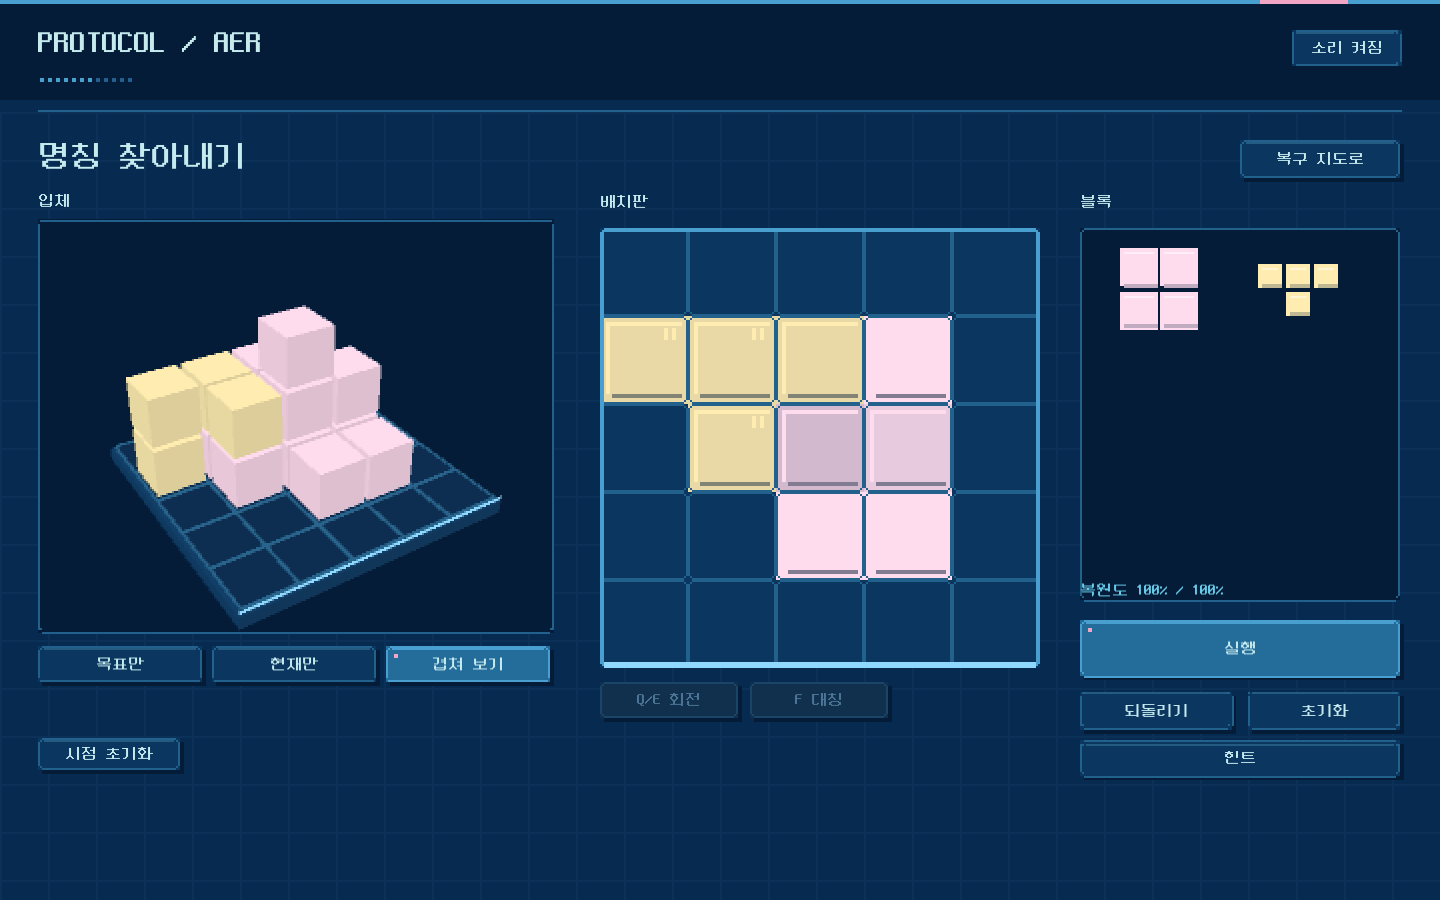
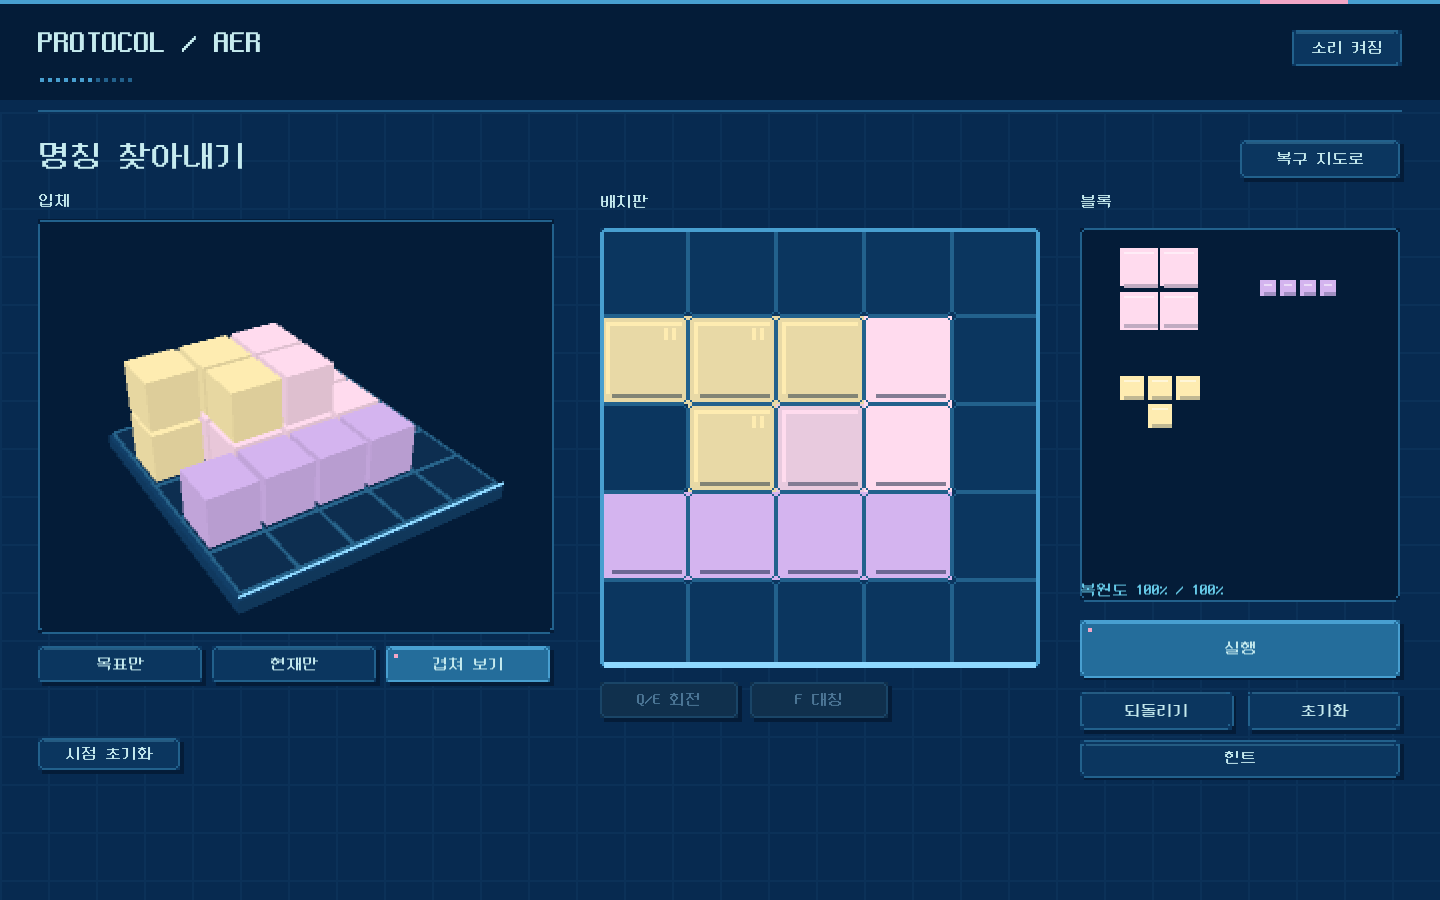
Include I mino in the control room teaching puzzle

diff --git a/Assets/Editor/AerBuilder.cs b/Assets/Editor/AerBuilder.cs
@@ -87,7 +87,7 @@ public static class AerBuilder
             int unlock=action==0?11:action==1?10:action==2?8:action==3?5:0;
             for(int i=0;i<AerStages.All.Length;i++)
             {
-                bool expected=i==10?(action==4||action==3||action==1):i==11?(action==4||action==0):i>=unlock;
+                bool expected=i==10?(action==4||action==3||action==1):i==11?(action==4||action==2||action==0):i>=unlock;
                 if(AerStages.All[i].Allows(action)!=expected)throw new Exception("Stage teaching set/unlock timing changed");
             }
         }
@@ -98,6 +98,13 @@ public static class AerBuilder
             windProof.TryPlace(step.Action,step.Cells(),out _);
         }
         if(AerStages.All[10].Similarity(windProof)!=100||!AerStages.All[10].Complete(windProof))throw new Exception("Windway must remain solvable at 100% without I");
+        var control=AerStages.All[11];
+        if(control.SupplyOf(4)!=2||control.SupplyOf(2)!=1||control.SupplyOf(0)!=1)throw new Exception("Control room must use O O I T");
+        foreach(int action in new[]{4,2,0})
+        {
+            var without=new EveningBoard();foreach(var step in control.Solution)if(step.Action!=action)without.TryPlace(step.Action,step.Cells(),out _);
+            if(control.Complete(without))throw new Exception("Each O I T type must contribute to the reference reconstruction");
+        }
         var unlimited=new EveningBoard();for(int i=0;i<100;i++)if(!unlimited.TryPlace(4,(Vector2Int[])EveningBoard.Shapes[4].Clone(),out _))throw new Exception("Unexpected piece cap");
         if(unlimited.MaxHeight!=100)throw new Exception("Unlimited overlap failed");
         var empty=new EveningBoard();Add(empty,0,0,0);Add(empty,1,0,0);

diff --git a/Assets/Scripts/AerStages.cs b/Assets/Scripts/AerStages.cs
@@ -39,7 +39,7 @@ public sealed class AerStage
     {
         // Operator introductions deliberately offer only their teaching set.
         if(Code=="NAME-07")return action==4||action==3||action==1;
-        if(Code=="NAME-08")return action==4||action==0;
+        if(Code=="NAME-08")return action==4||action==2||action==0;
         int index=Array.IndexOf(AerStages.All,this);
         return action==4||action==3&&index>=5||action==2&&index>=8||action==1&&index>=10||action==0&&index>=11;
     }
@@ -72,7 +72,7 @@ public static class AerStages
         new AerStage("급수 관리소","NAME-06","",M(4,1,1),M(4,2,1),M(3,0,1),M(2,3,0,1),M(4,2,2)),
         // Each introduction uses three ordinary pieces and one local operator.
         new AerStage("바람길 제어소","NAME-07","",M(4,1,1),M(4,2,1),M(3,0,1),M(1,1,2)),
-        new AerStage("환경 제어실","NAME-08","",M(4,1,1),M(4,2,1),M(4,2,2),M(0,0,1)),
+        new AerStage("환경 제어실","NAME-08","",M(4,1,1),M(4,2,1),M(2,0,3),M(0,0,1)),
         // Both local effects matter; their two shared cells retain raw heights.
         new AerStage("강수 복원","WEATHER-02","복원도 85% 이상",M(4,1,1),M(4,2,1),M(3,0,1),M(2,0,2),M(1,1,2),M(0,0,2))
     };

diff --git a/docs/Development.md b/docs/Development.md
@@ -10,7 +10,7 @@ Targets are generated from example solutions. Names require exact height matches
 
 Unlocks are O initially, L in name 3, I in name 5, S in name 7 and T in name 8. Supply is unlimited; no save state exists. Names 1–5, tutorials and the first weather are unchanged. Waterworks now uses three O, one L and one vertical I: one more ordinary piece than the archive, preserving an I rotation while simplifying the old multiple L/I orientation combinations. Difficulty comparisons are design targets, not a substitute for playtesting.
 
-Windway and control room each use three ordinary pieces and one operator. Windway provides only O/L/S: its exact O/O/L/S solution needs no I. Control room provides only O/T. These stage-specific teaching sets do not change later unlocks; the finale restores all five types. S introduction omits T; mixed intersections are introduced with T. The final rainfall uses four ordinary pieces and S/T, all in default orientation. Both effects matter in its reference solution. Two common cells preserve original heights while exclusive S cells lower and exclusive T cells raise. The old whole-mino inversion, doubling and -2 rules have been removed.
+Windway and control room each use three ordinary pieces and one operator. Windway provides only O/L/S: its exact O/O/L/S solution needs no I. Control room provides O/I/T; its four-piece example solution uses two O pieces, one horizontal I along the lower edge, and one T leveling the upper overlap. All three types contribute, while the maximum target height is two. These stage-specific teaching sets do not change later unlocks; the finale restores all five types. S introduction omits T; mixed intersections are introduced with T. The final rainfall uses four ordinary pieces and S/T, all in default orientation. Both effects matter in its reference solution. Two common cells preserve original heights while exclusive S cells lower and exclusive T cells raise. The old whole-mino inversion, doubling and -2 rules have been removed.
 ## Controls
 
 - Any key/click on title: connect.
